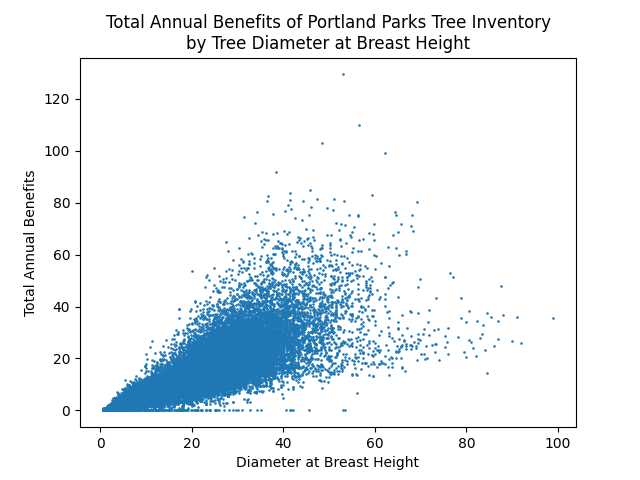
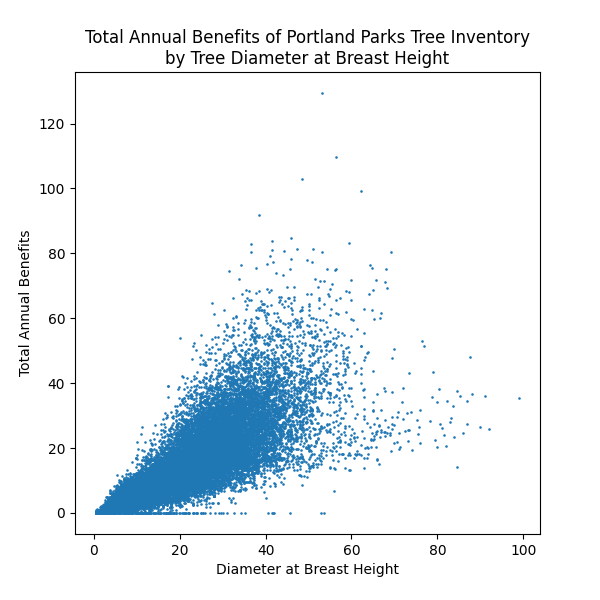
Added box plots

diff --git a/src/main.py b/src/main.py
@@ -1,6 +1,7 @@
+import matplotlib.pyplot as plt
 import numpy as np
 import pandas as pd
-import matplotlib.pyplot as plt
+import seaborn as sns
 import os
 
 # Get the current directory of the script
@@ -9,21 +10,63 @@ parnet_dir = os.path.dirname(os.path.dirname(__file__))
 # Construct the full path to the CSV file
 csv_file_path = os.path.join(parnet_dir, 'resources', 'Parks_Tree_Inventory.csv')
 
-# Check if the file exists
-if os.path.exists(csv_file_path):
+# If file doesn't exist, then run error and exit program
+try:
     # Read the CSV file into a DataFrame
     trees = pd.read_csv(csv_file_path)
-    # Now you can work with the 'trees' DataFrame
-else:
-    print("Error: CSV file not found at", csv_file_path)
+except:
+    SystemExit('Error: CSV file not found at', csv_file_path)
 
+trees = trees.dropna(subset=['DBH', 'Total_Annual_Benefits'])
+
+# Establish table variables
 size = [float(i) for i in trees['DBH']]
 value = [float(j) for j in trees['Total_Annual_Benefits']]
 
+# Calculate descriptive statistics
+size_mean = np.mean(size)
+size_median = np.median(size)
+size_range = np.ptp(size) # Peak to peak, i.e., max - min
+size_std_dev = np.std(size)
+
+value_mean = np.mean(value)
+value_median = np.median(value)
+value_range = np.ptp(value)
+value_std_dev = np.std(value)
+
+print('Descriptive Statistics for Diameter at Breast Height (DBH):')
+print(f'Mean: {size_mean:.2f}')
+print(f'Median: {size_median:.2f}')
+print(f'Range: {size_range:.2f}')
+print(f'Std-Dev: {size_std_dev:.2f}')
+print()
+print('Descriptive Statistics for Total Annual Benefits (TAB):')
+print(f'Mean: {value_mean:.2f}')
+print(f'Median: {value_median:.2f}')
+print(f'Range: {value_range:.2f}')
+print(f'Std-Dev: {value_std_dev:.2f}')
+
+# Plotting DBH box-plot
+plt.figure(figsize=(6, 6))
+sns.boxplot(y=size, color='yellow')
+plt.title('Boxplot of Diameter at Breast Height (DBH)')
+plt.ylabel('Diameter at Breast Height')
+plt.savefig('resources/DBH_box_plot.png')
+# plt.show()
+
+# Plotting TAB box-plot
+plt.figure(figsize=(6, 6))
+sns.boxplot(y=value, color='green')
+plt.title('Boxplot of Total Annual Benefits (TAB)')
+plt.ylabel('Total Annual Benefits')
+plt.savefig('resources/TAB_box_plot.png')
+# plt.show()
+
+# Plotting DBHxTAB
 plt.clf() # Clear the current plot so you don't plot over the previous graph
 plt.scatter(size, value, 0.75)
 plt.xlabel('Diameter at Breast Height')
 plt.ylabel('Total Annual Benefits')
 plt.title('Total Annual Benefits of Portland Parks Tree Inventory\nby Tree Diameter at Breast Height')
 plt.savefig('resources/TABxDBH_scatter_plot.png')
-plt.show() # NOTE: Opens an interactive graph
+# plt.show()
